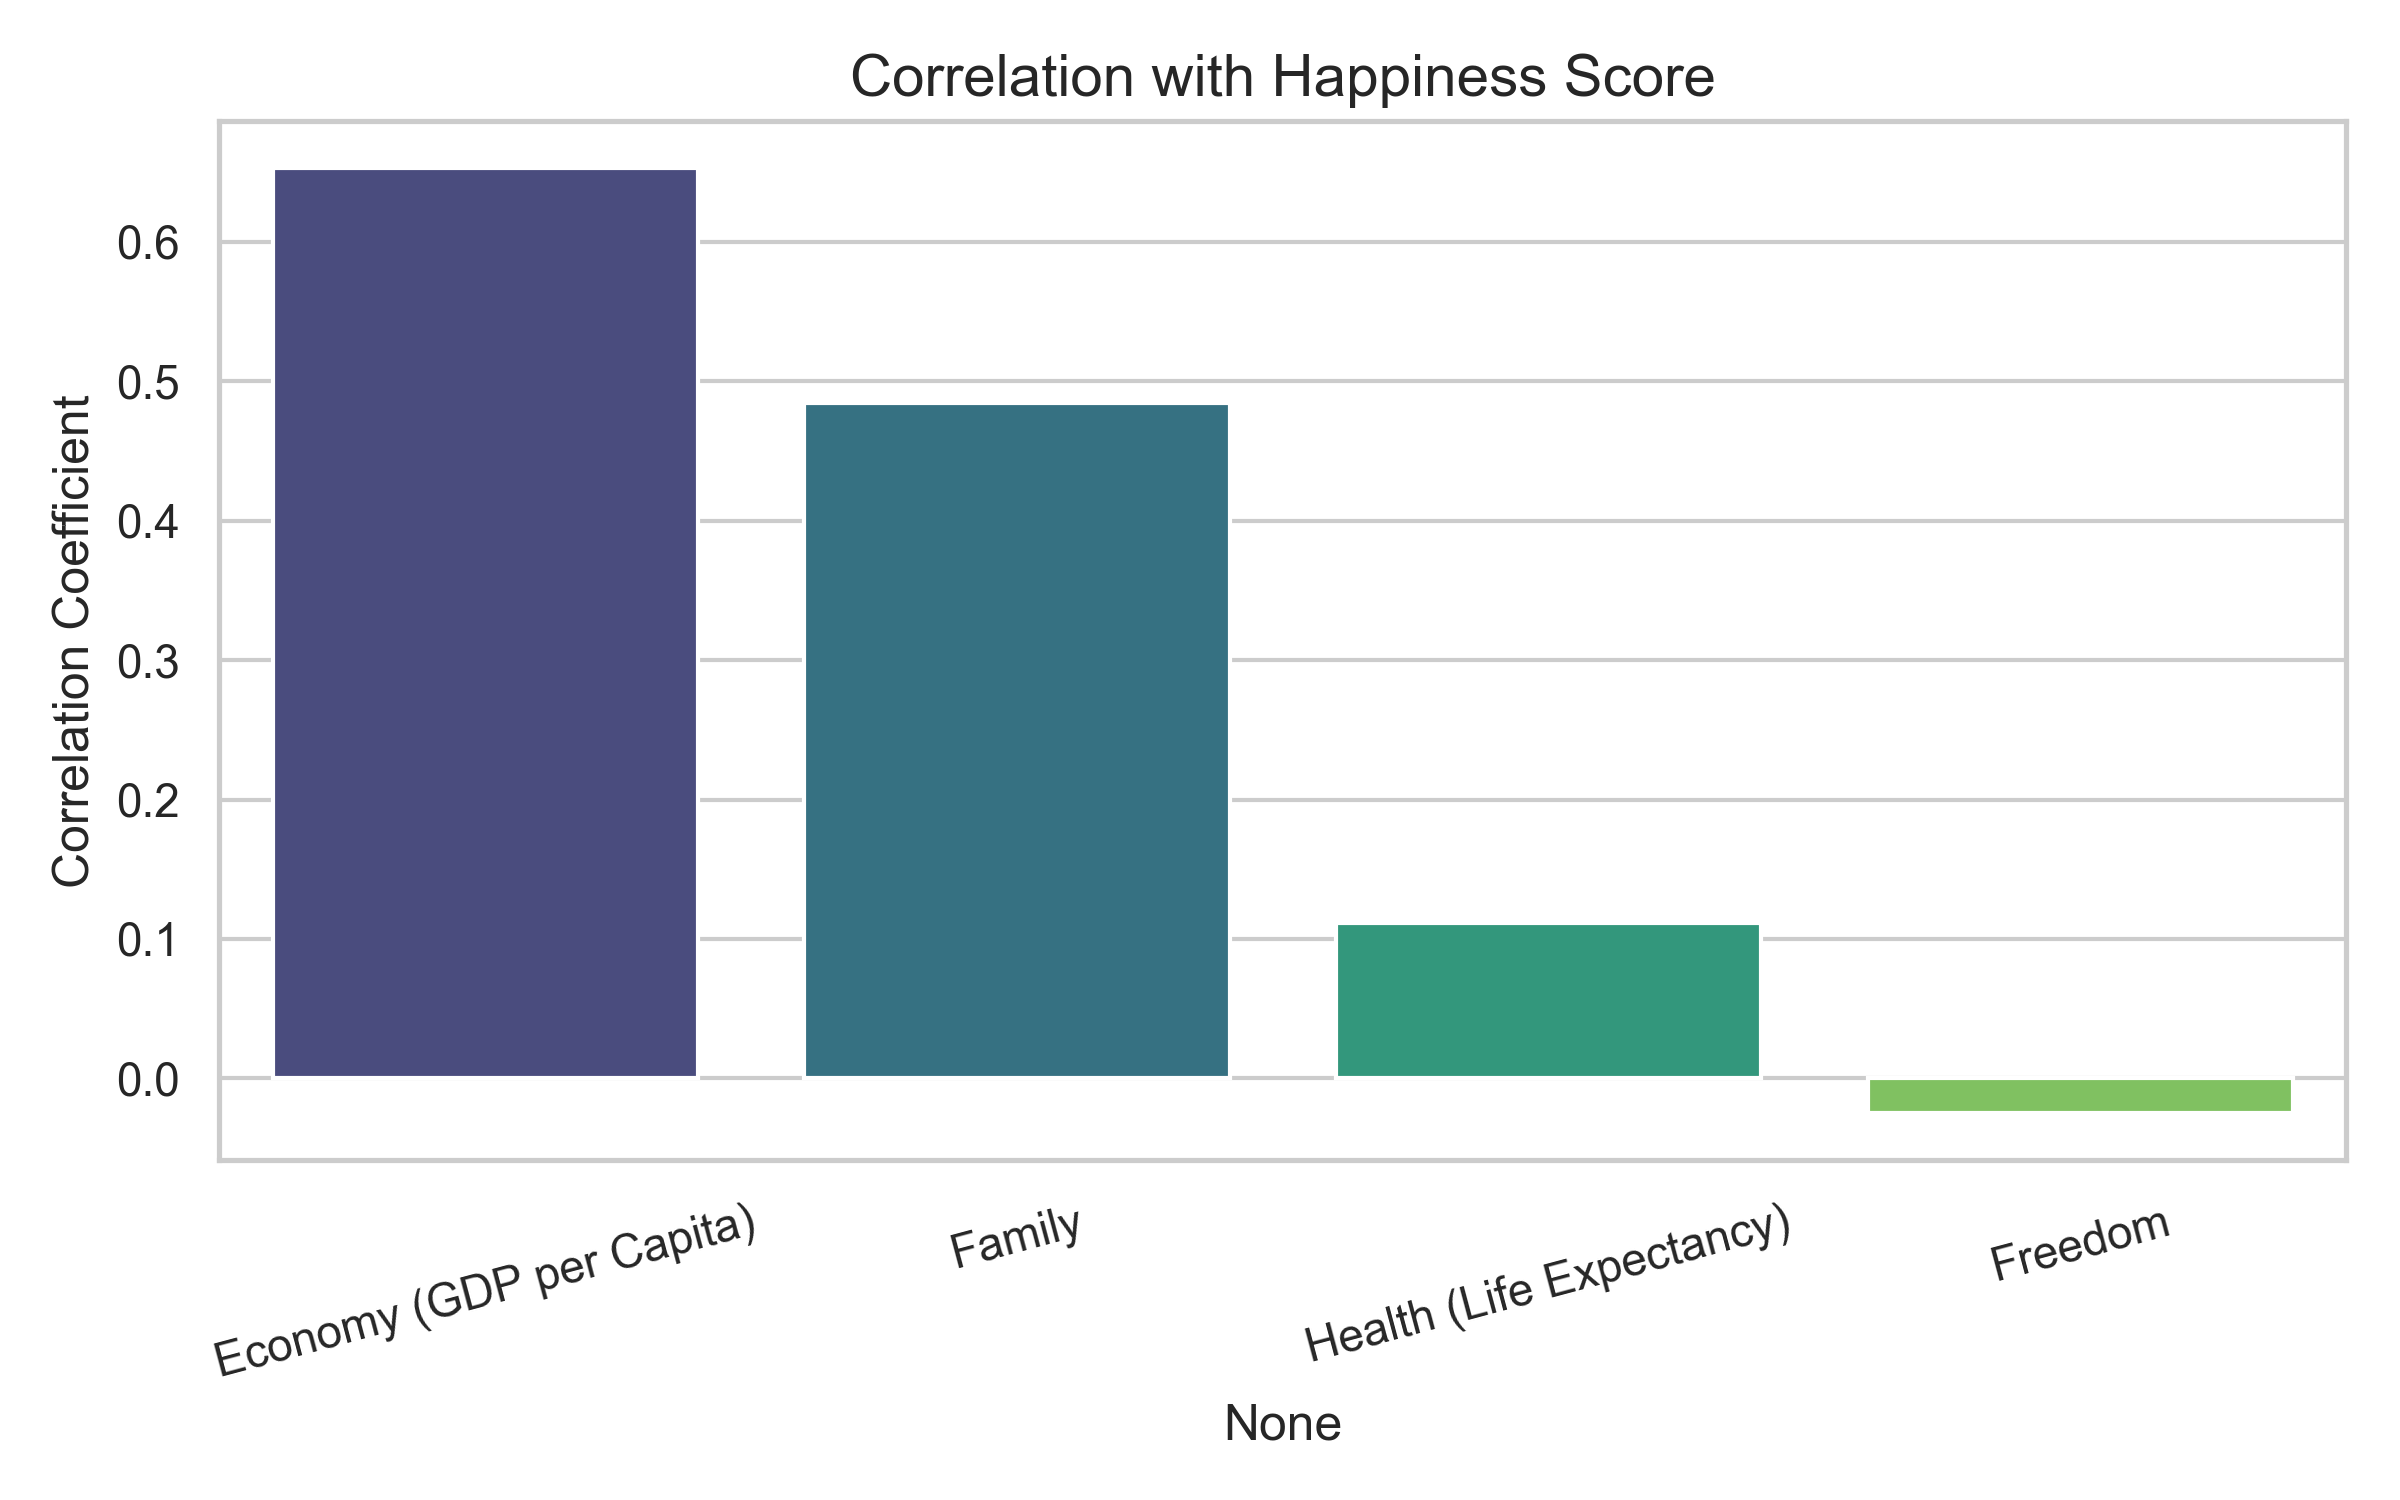
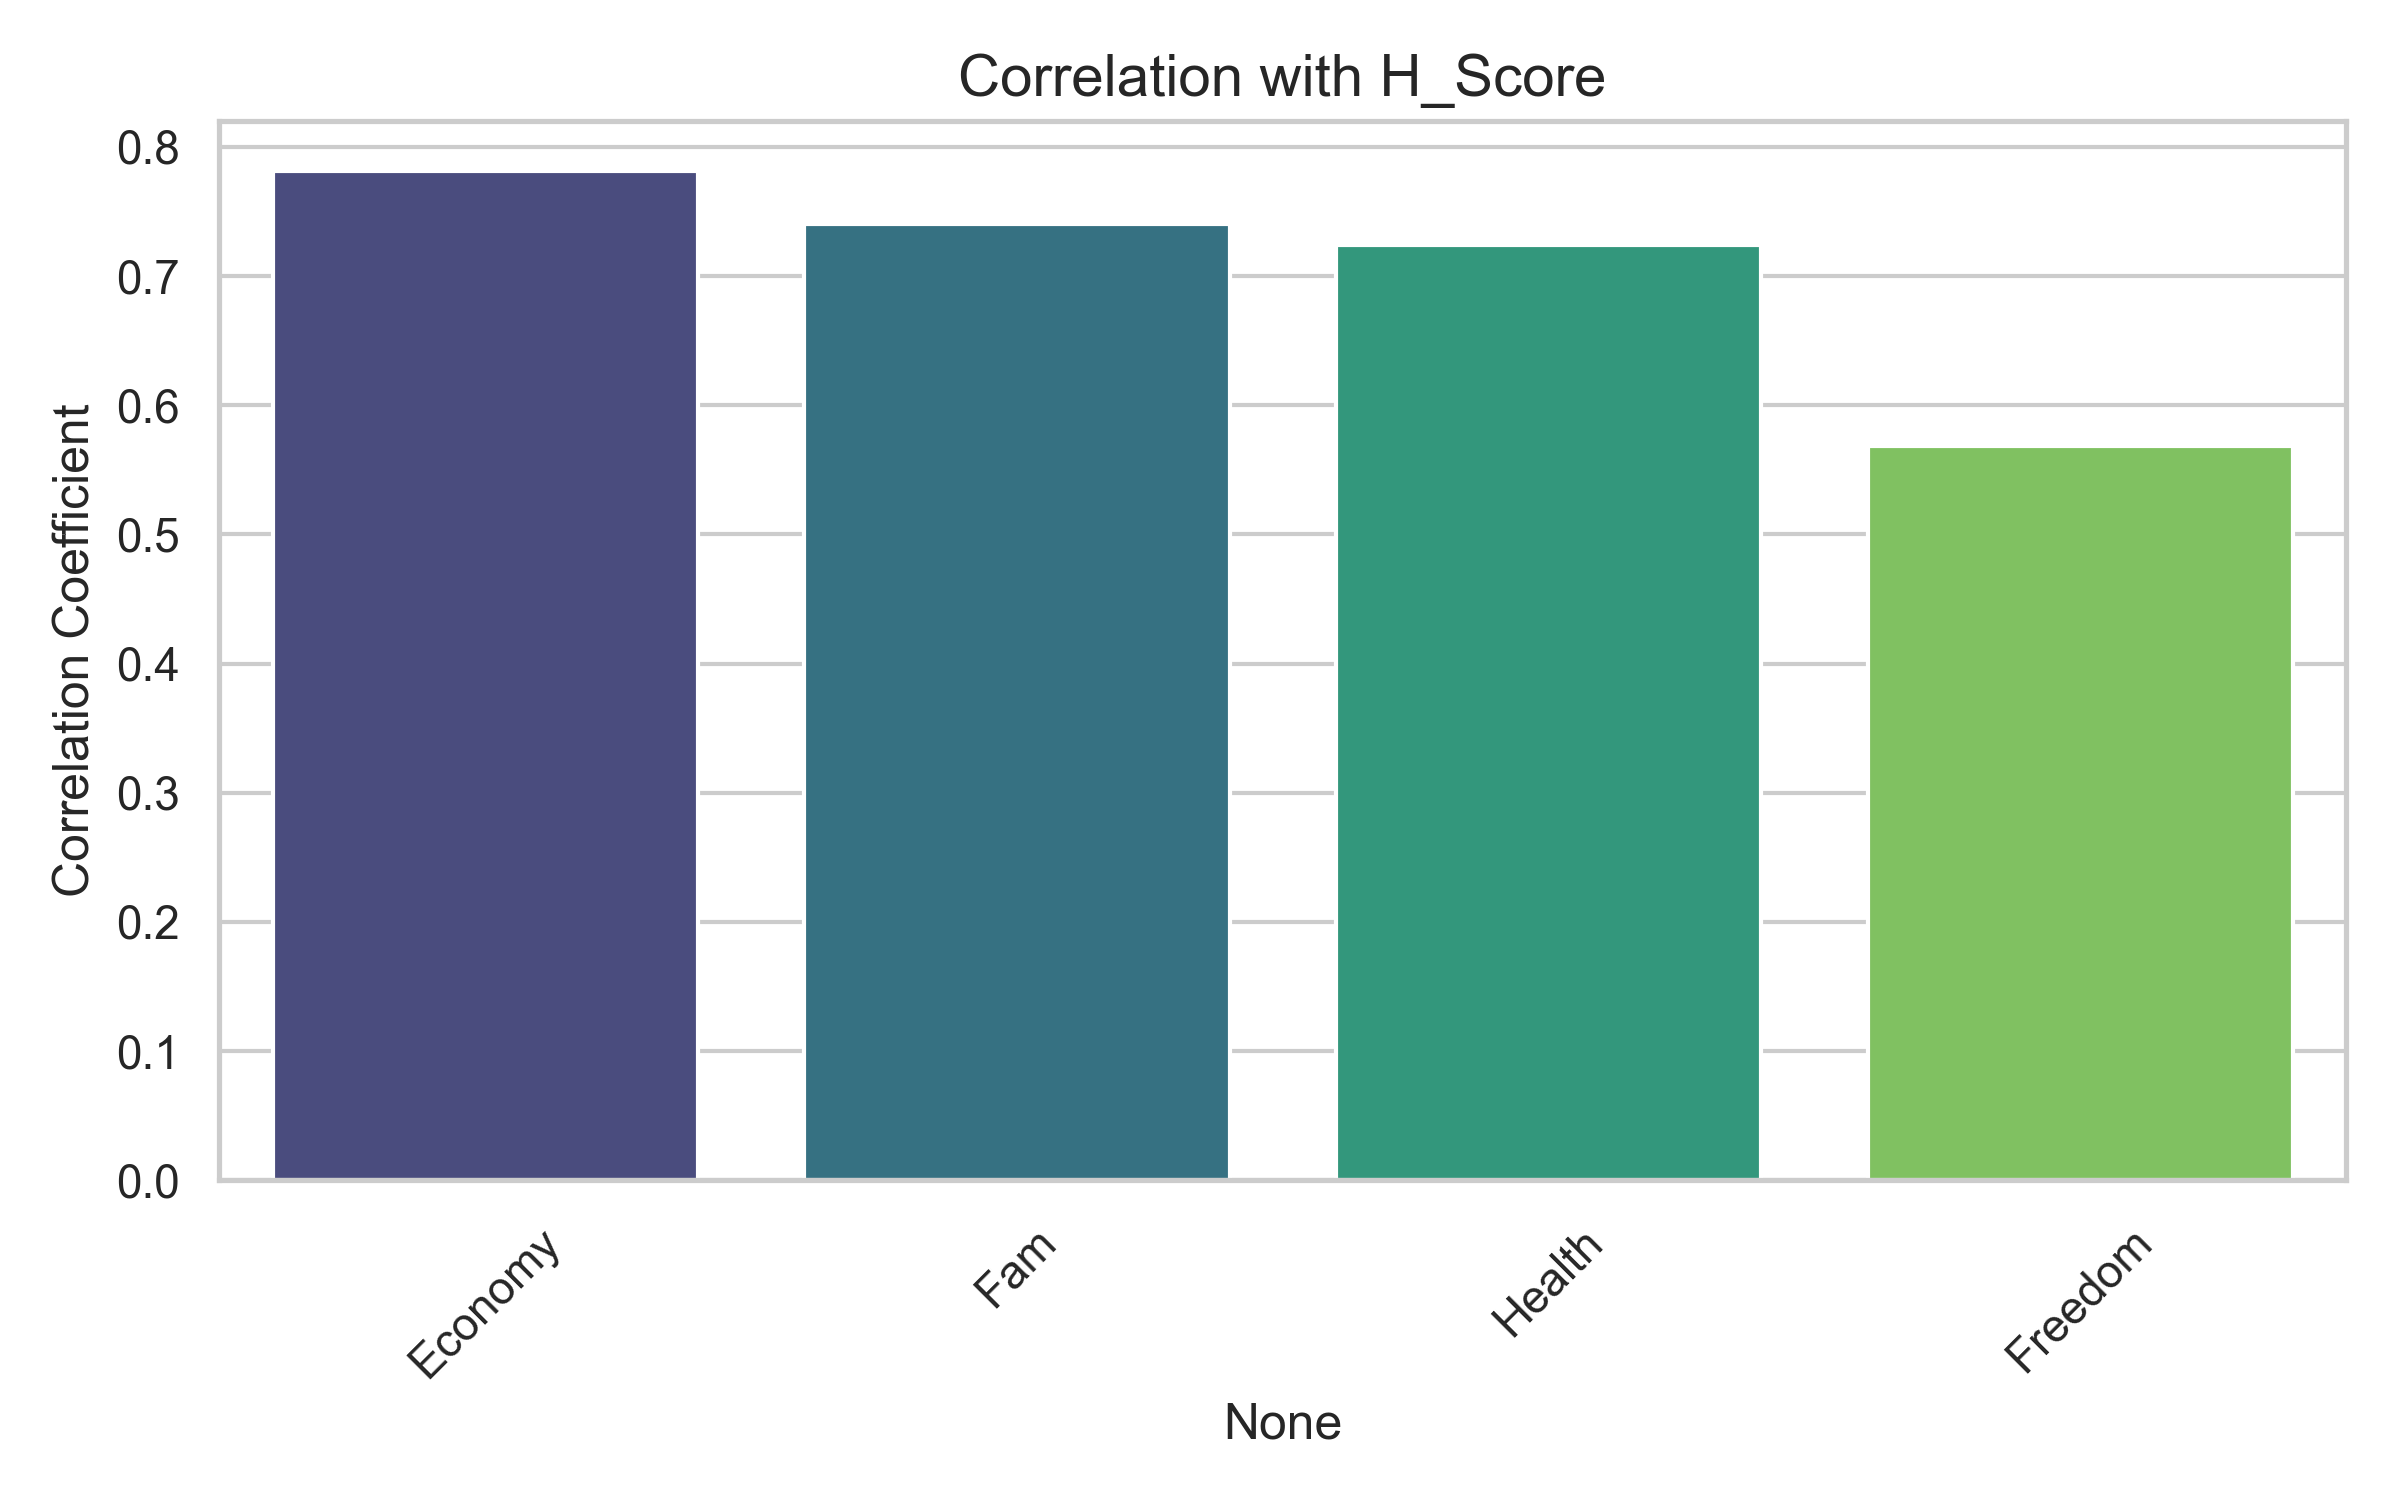
Update graphs with actual provided dataset

diff --git a/plot_graphs.py b/plot_graphs.py
@@ -9,37 +9,37 @@ df_ghi = pd.read_csv('GHI_Report.csv')
 sns.set_theme(style="whitegrid")
 
 # a. Bar chart for correlations
-cols = ['Economy (GDP per Capita)', 'Family', 'Health (Life Expectancy)', 'Freedom', 'Happiness Score']
-corr = df_ghi[cols].corr()['Happiness Score'].drop('Happiness Score')
+cols = ['Economy', 'Fam', 'Health', 'Freedom', 'H_Score']
+corr = df_ghi[cols].corr()['H_Score'].drop('H_Score')
 
 plt.figure(figsize=(8, 5))
 sns.barplot(x=corr.index, y=corr.values, palette='viridis')
-plt.title('Correlation with Happiness Score', fontsize=14)
+plt.title('Correlation with H_Score', fontsize=14)
 plt.ylabel('Correlation Coefficient', fontsize=12)
-plt.xticks(rotation=15)
+plt.xticks(rotation=45)
 plt.tight_layout()
 plt.savefig('correlation_barchart.png', dpi=300)
 plt.close()
 
-# b. Histogram for Happiness Score distribution
+# b. Histogram for H_Score distribution
 plt.figure(figsize=(8, 5))
-sns.histplot(df_ghi['Happiness Score'], bins=15, kde=True, color='skyblue')
-plt.title('Distribution of Happiness Scores', fontsize=14)
-plt.xlabel('Happiness Score', fontsize=12)
-plt.ylabel('Frequency (Number of Countries)', fontsize=12)
+sns.histplot(df_ghi['H_Score'], bins=15, kde=True, color='skyblue')
+plt.title('Distribution of Happiness Scores (H_Score)', fontsize=14)
+plt.xlabel('H_Score', fontsize=12)
+plt.ylabel('Frequency', fontsize=12)
 plt.tight_layout()
 plt.savefig('happiness_distribution_histogram.png', dpi=300)
 plt.close()
 
-# c. Scatter plot: Economy vs Happiness Score
+# c. Scatter plot: Economy vs H_Score
 plt.figure(figsize=(8, 5))
-sns.scatterplot(data=df_ghi, x='Economy (GDP per Capita)', y='Happiness Score', color='coral', s=100, alpha=0.7)
-sns.regplot(data=df_ghi, x='Economy (GDP per Capita)', y='Happiness Score', scatter=False, color='darkred')
-plt.title('Economy (GDP per capita) vs Happiness Score', fontsize=14)
-plt.xlabel('Economy (GDP per Capita)', fontsize=12)
-plt.ylabel('Happiness Score', fontsize=12)
+sns.scatterplot(data=df_ghi, x='Economy', y='H_Score', color='coral', s=100, alpha=0.7)
+sns.regplot(data=df_ghi, x='Economy', y='H_Score', scatter=False, color='darkred')
+plt.title('Economy vs H_Score', fontsize=14)
+plt.xlabel('Economy', fontsize=12)
+plt.ylabel('H_Score', fontsize=12)
 plt.tight_layout()
 plt.savefig('economy_vs_happiness_scatter.png', dpi=300)
 plt.close()
 
-print("Plots generated successfully: correlation_barchart.png, happiness_distribution_histogram.png, economy_vs_happiness_scatter.png")
+print("Plots generated successfully with the new dataset: correlation_barchart.png, happiness_distribution_histogram.png, economy_vs_happiness_scatter.png")
